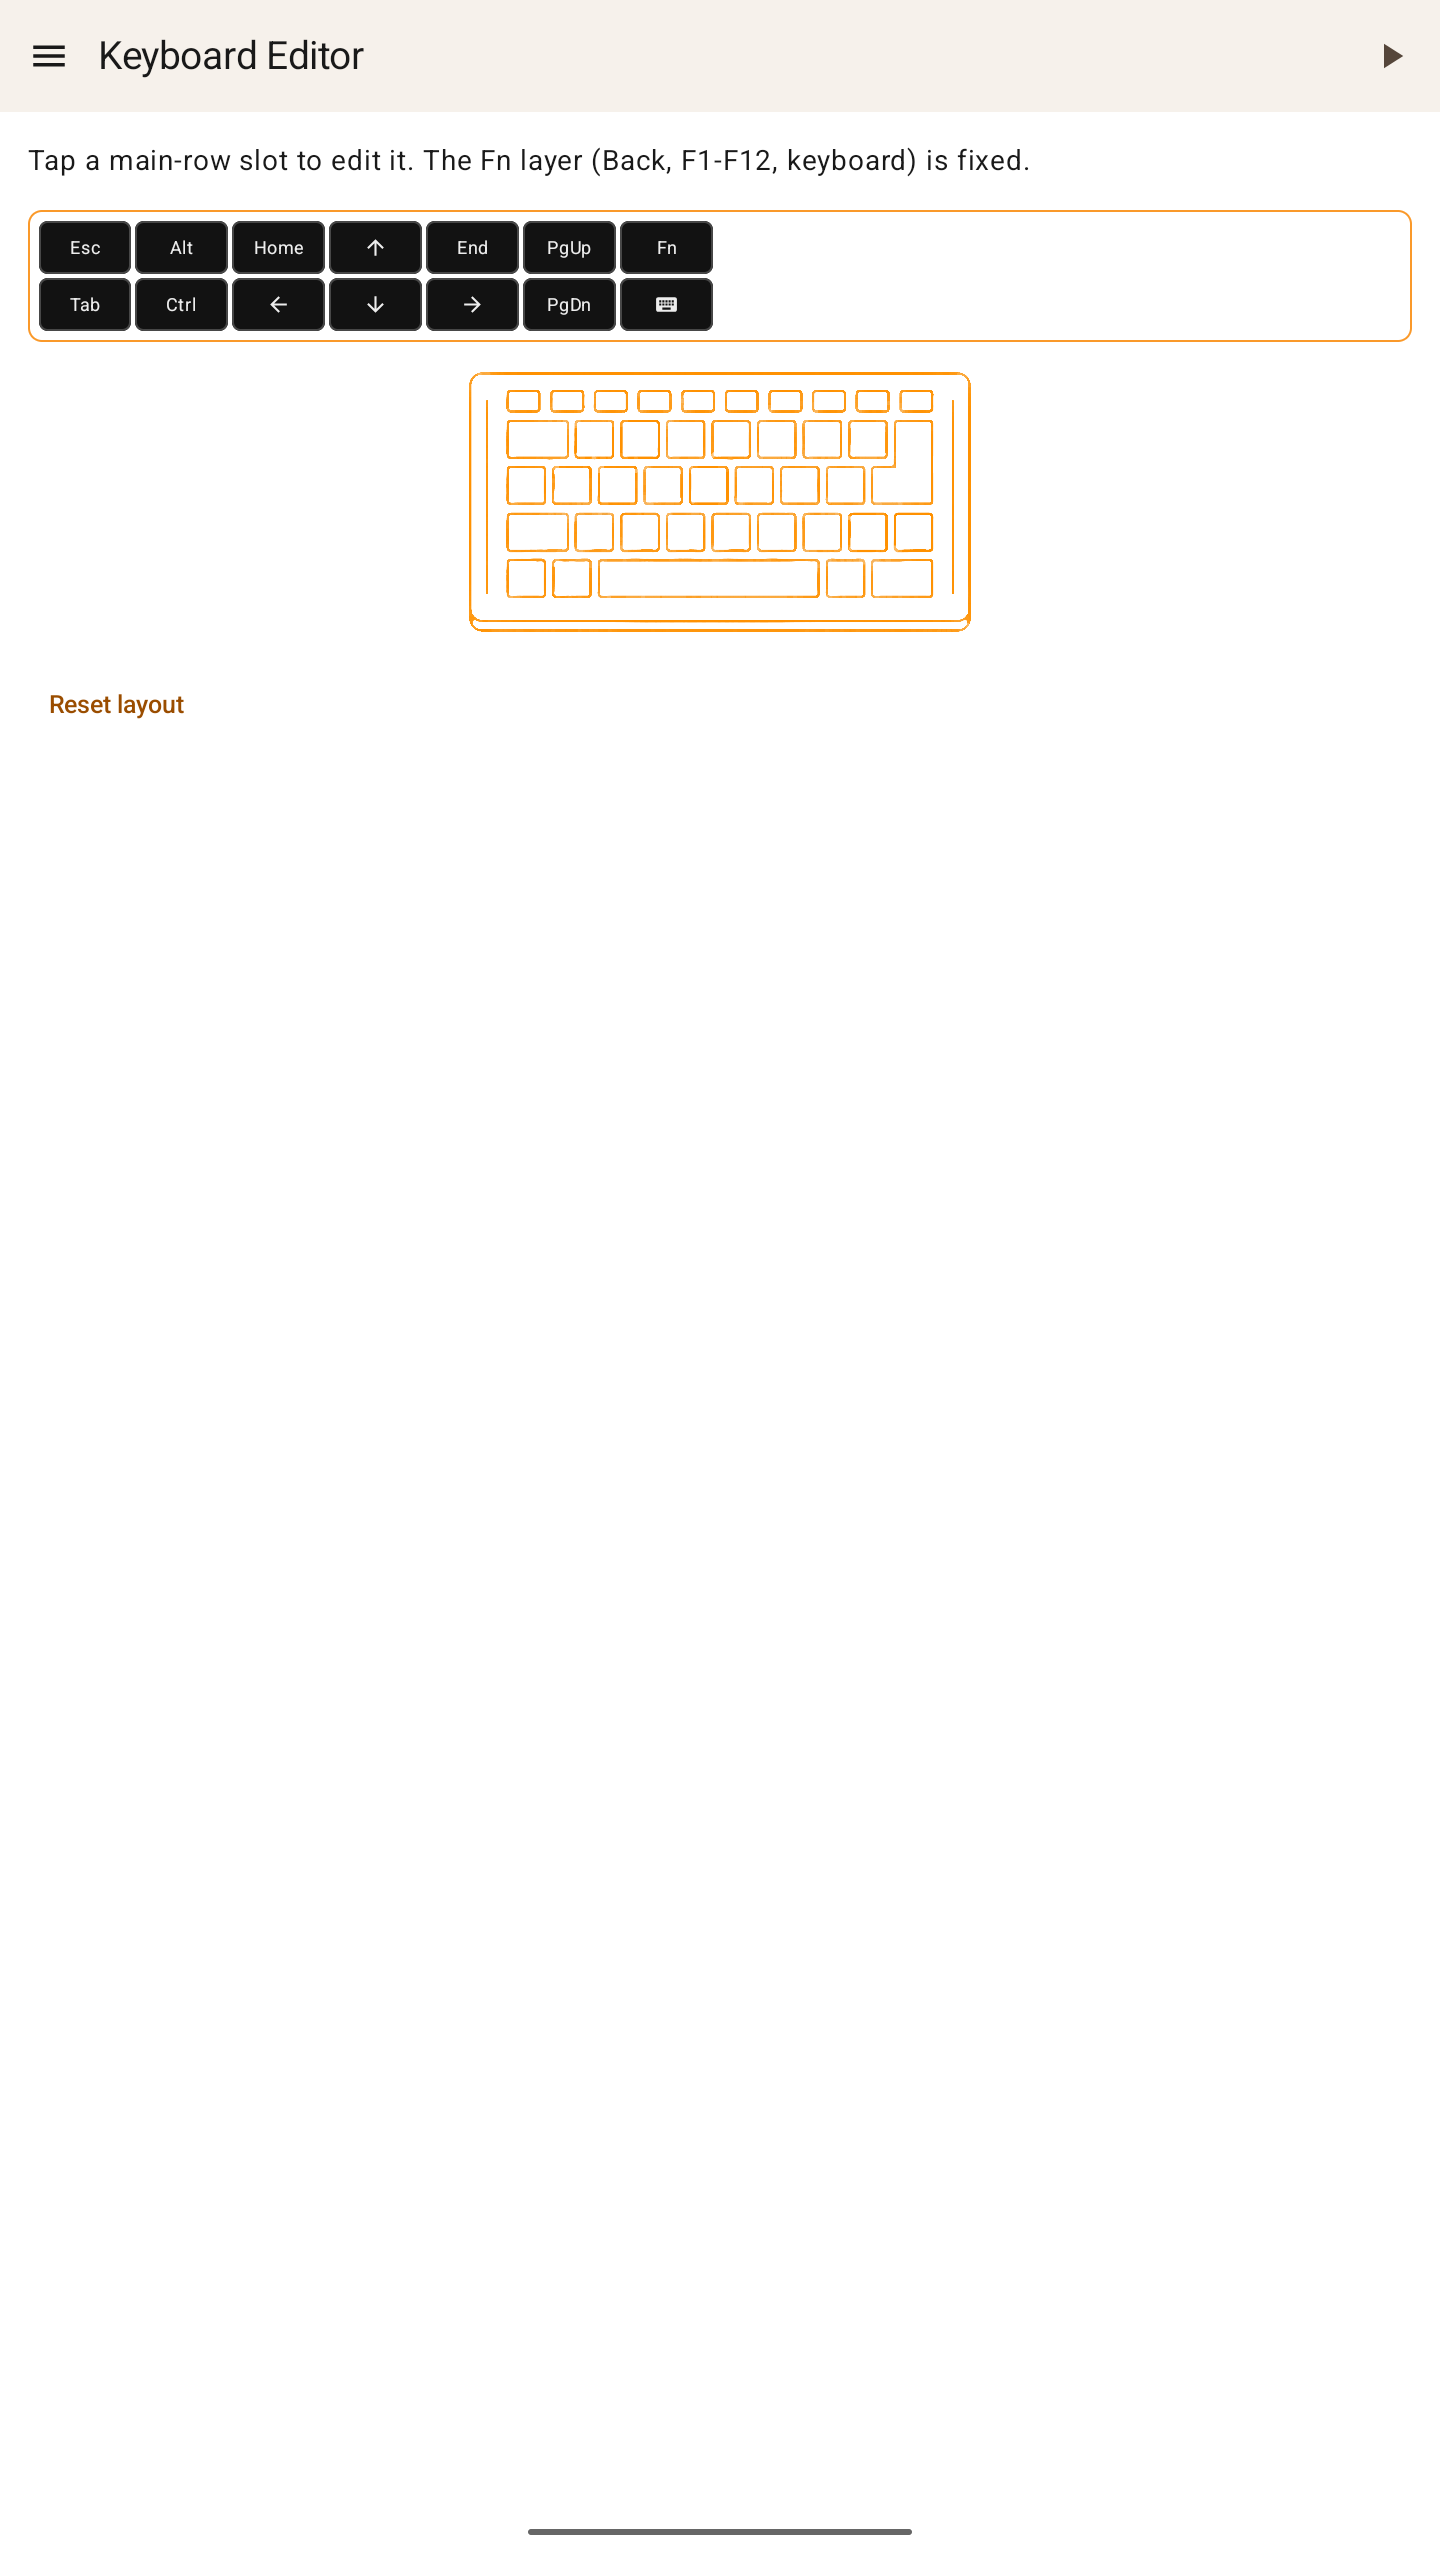
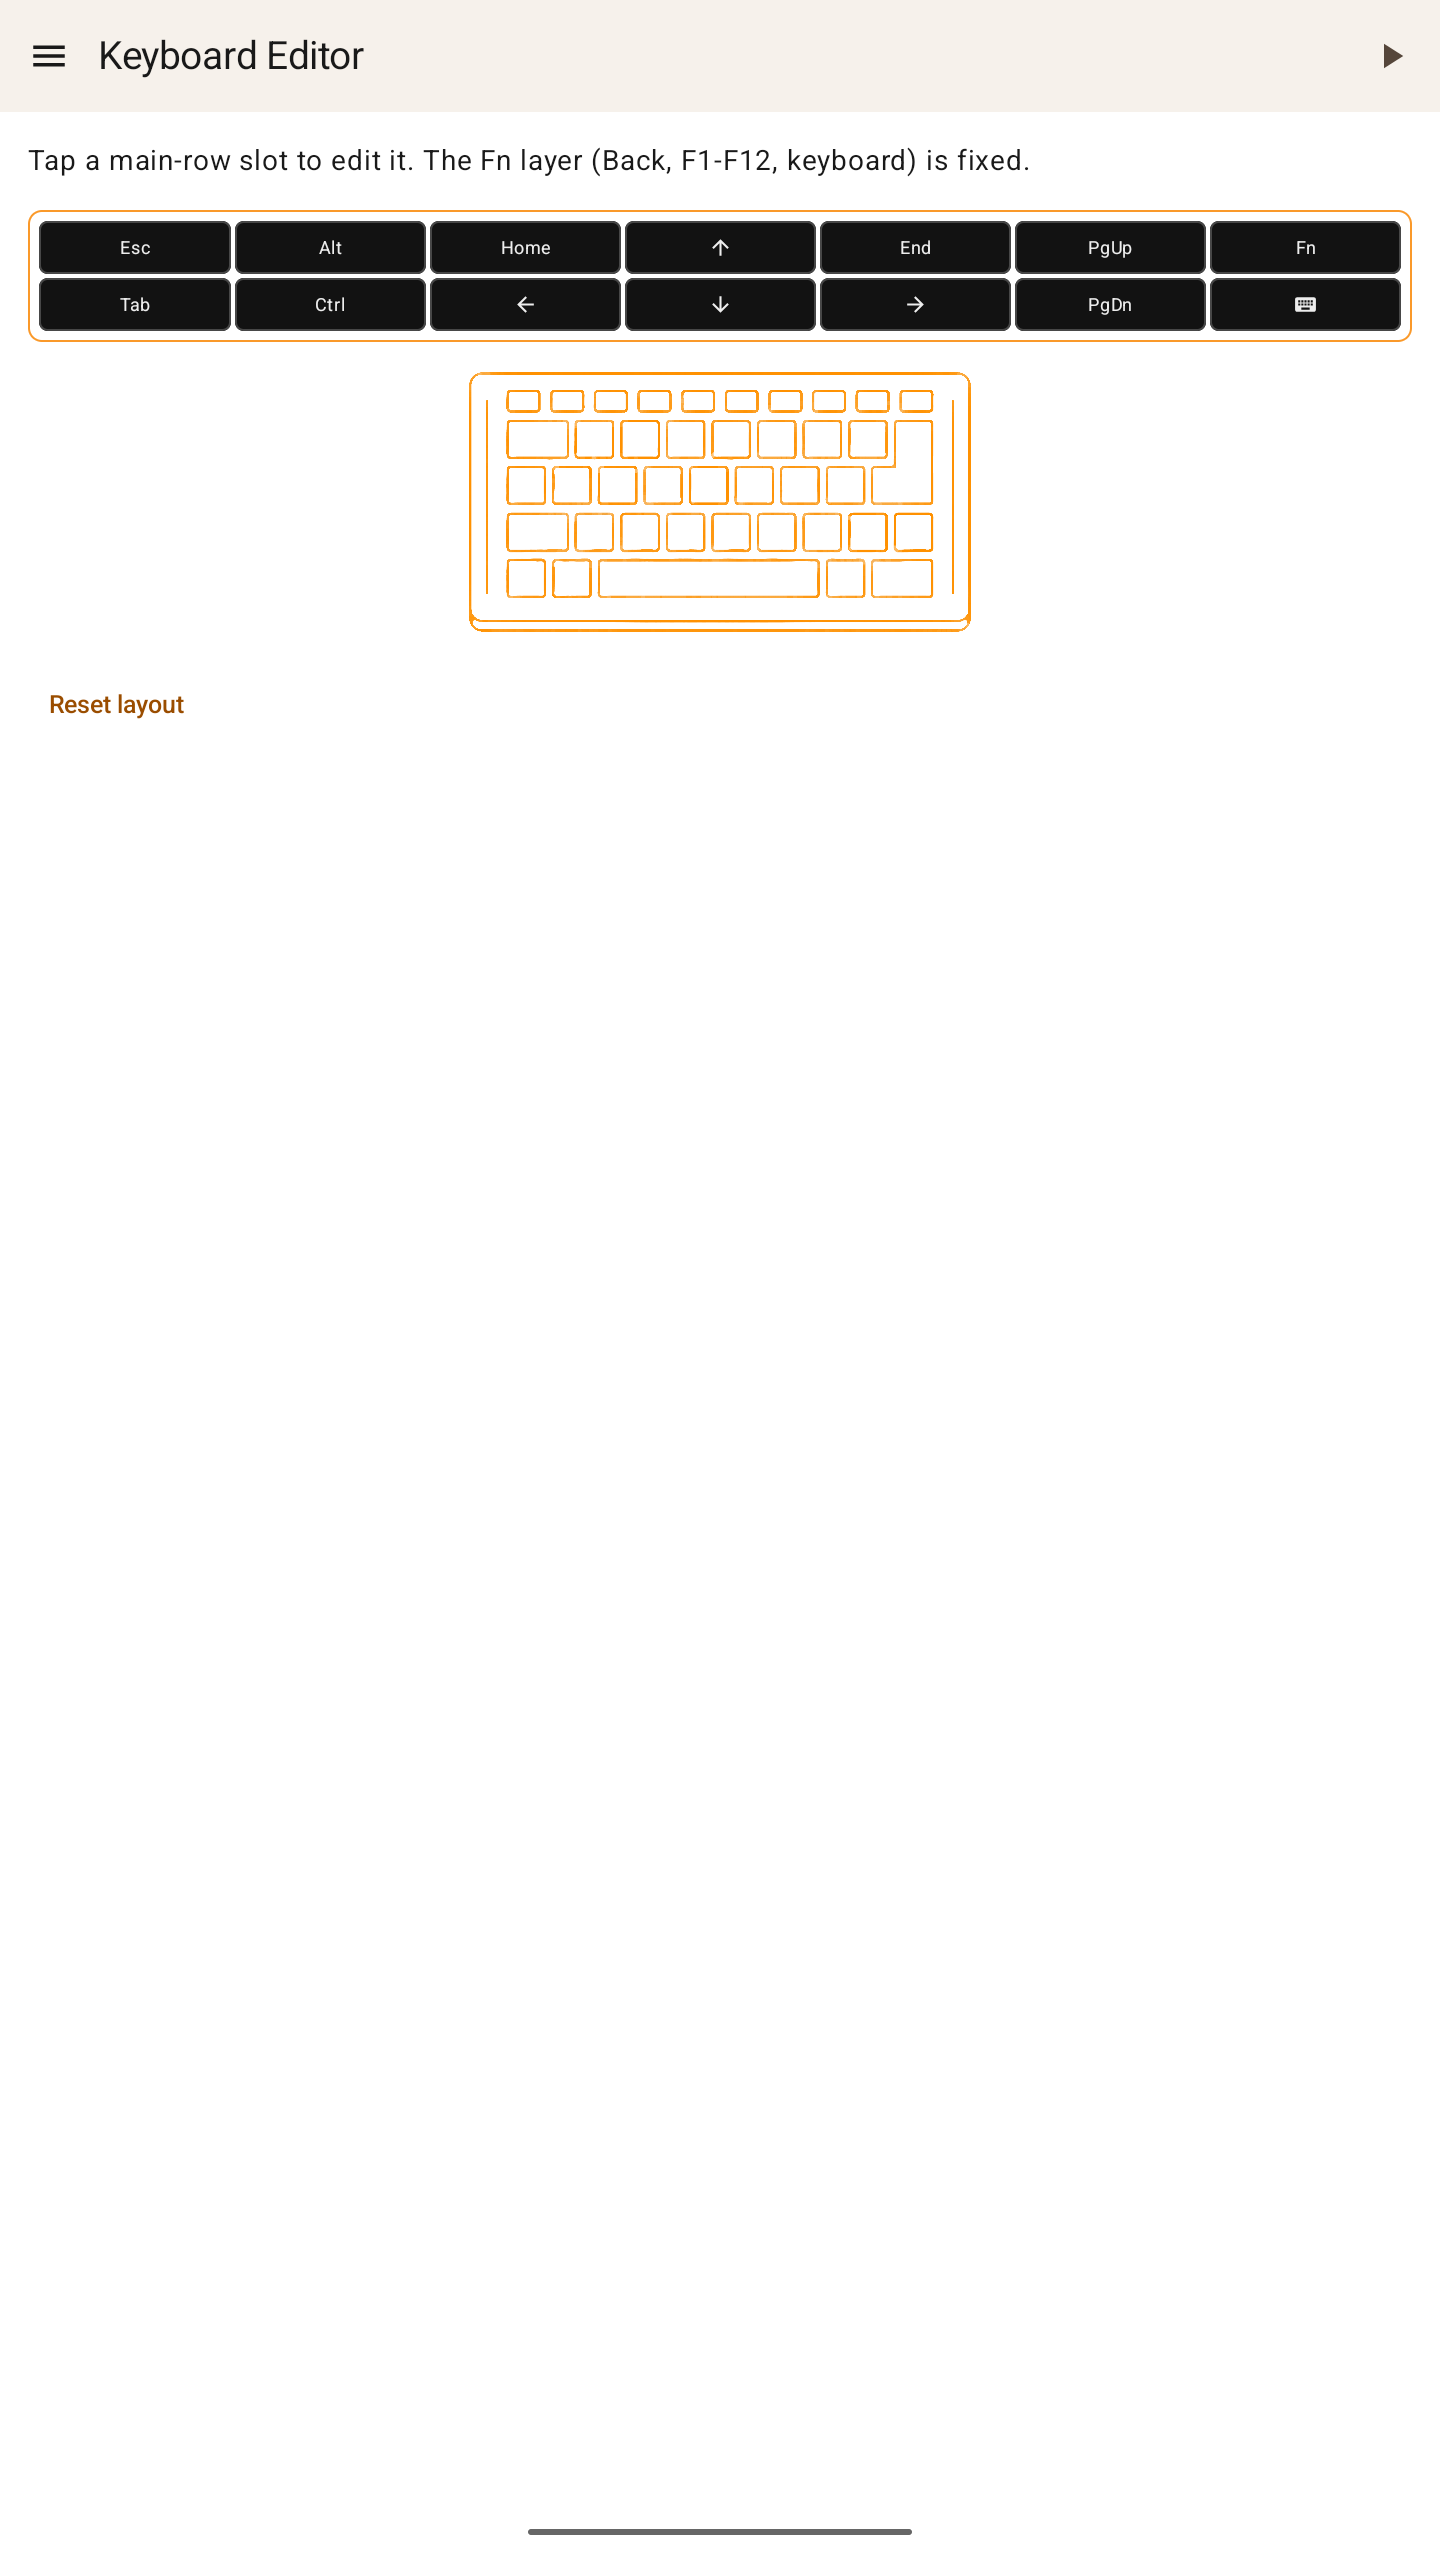
Keyboard editor: keep key rows full width on wide screens
On screens 600dp and wider the editor split the key rows into two
side-by-side columns, rows 1-2 on the left and the rest on the right.
The layout has only two rows, so the right column was always empty and
the keys were squeezed into the left half (seen on 10" tablets). Split
only when there are more than two rows, as the terminal's key rows do.
Re-shot the 10" tablet keyboard editor screenshot.

diff --git a/app/src/main/java/com/sshpeaches/app/ui/screens/KeyboardEditorScreen.kt b/app/src/main/java/com/sshpeaches/app/ui/screens/KeyboardEditorScreen.kt
@@ -123,7 +123,8 @@ fun KeyboardEditorScreen(
                     normalizedSlots.chunked(KeyboardLayoutDefaults.SLOT_COLUMNS)
                 }
                 val useWideLayout = maxWidth >= KEYBOARD_EDITOR_WIDE_LAYOUT_MIN_WIDTH
-                if (useWideLayout) {
+                val shouldSplitColumns = useWideLayout && rows.size > 2
+                if (shouldSplitColumns) {
                     Row(
                         modifier = Modifier.fillMaxWidth(),
                         horizontalArrangement = Arrangement.spacedBy(8.dp)
